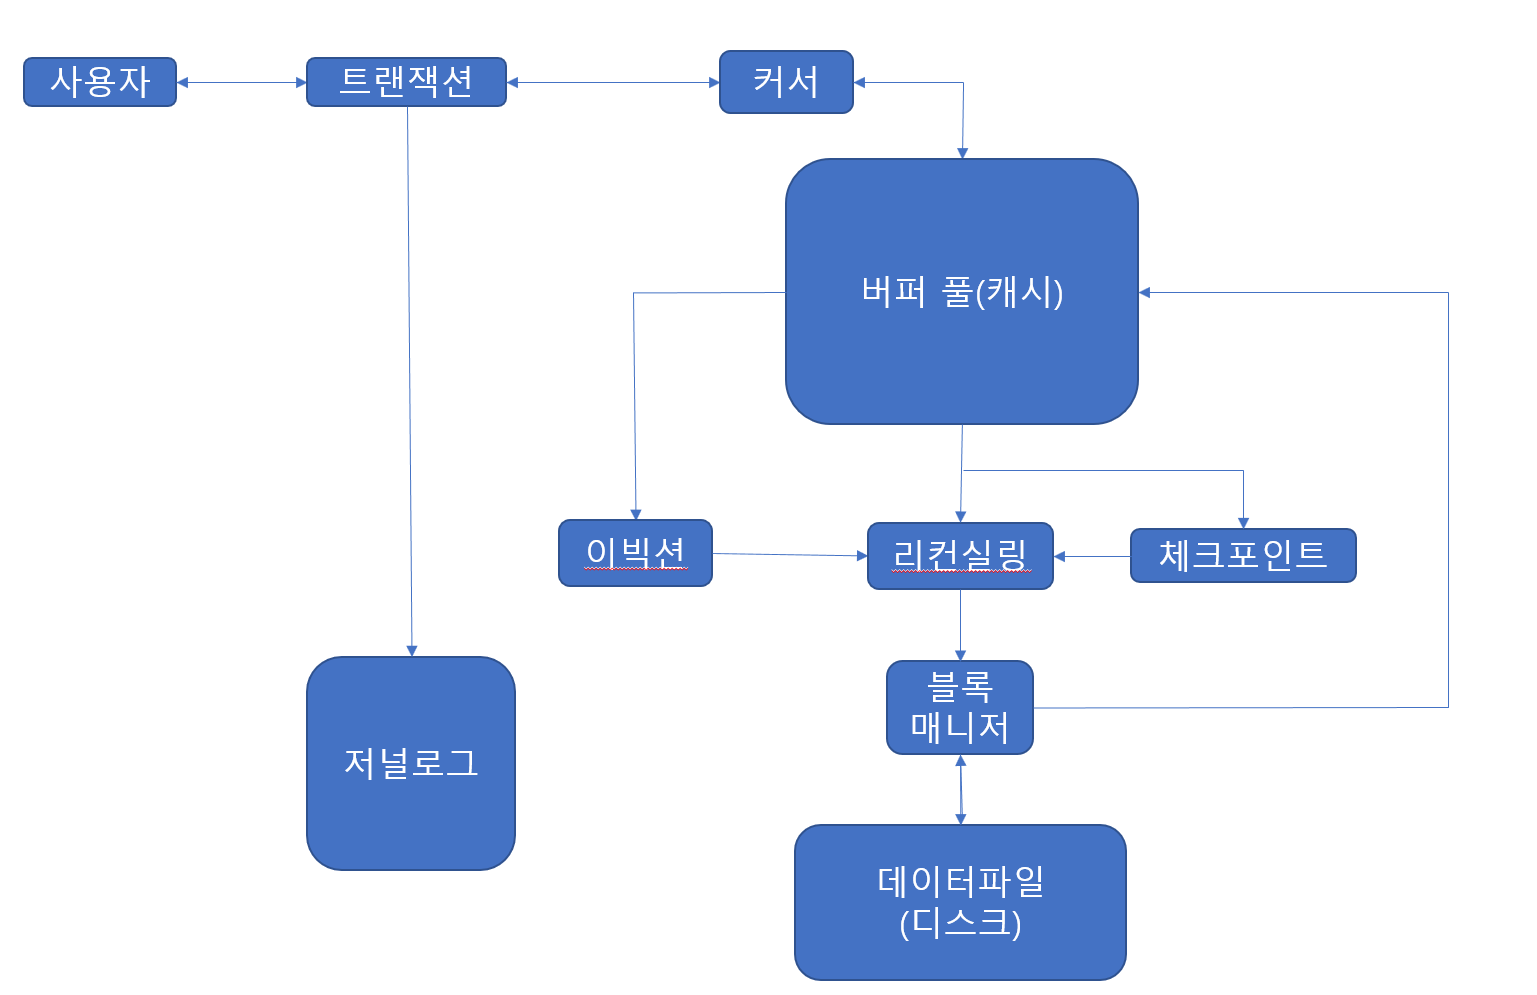
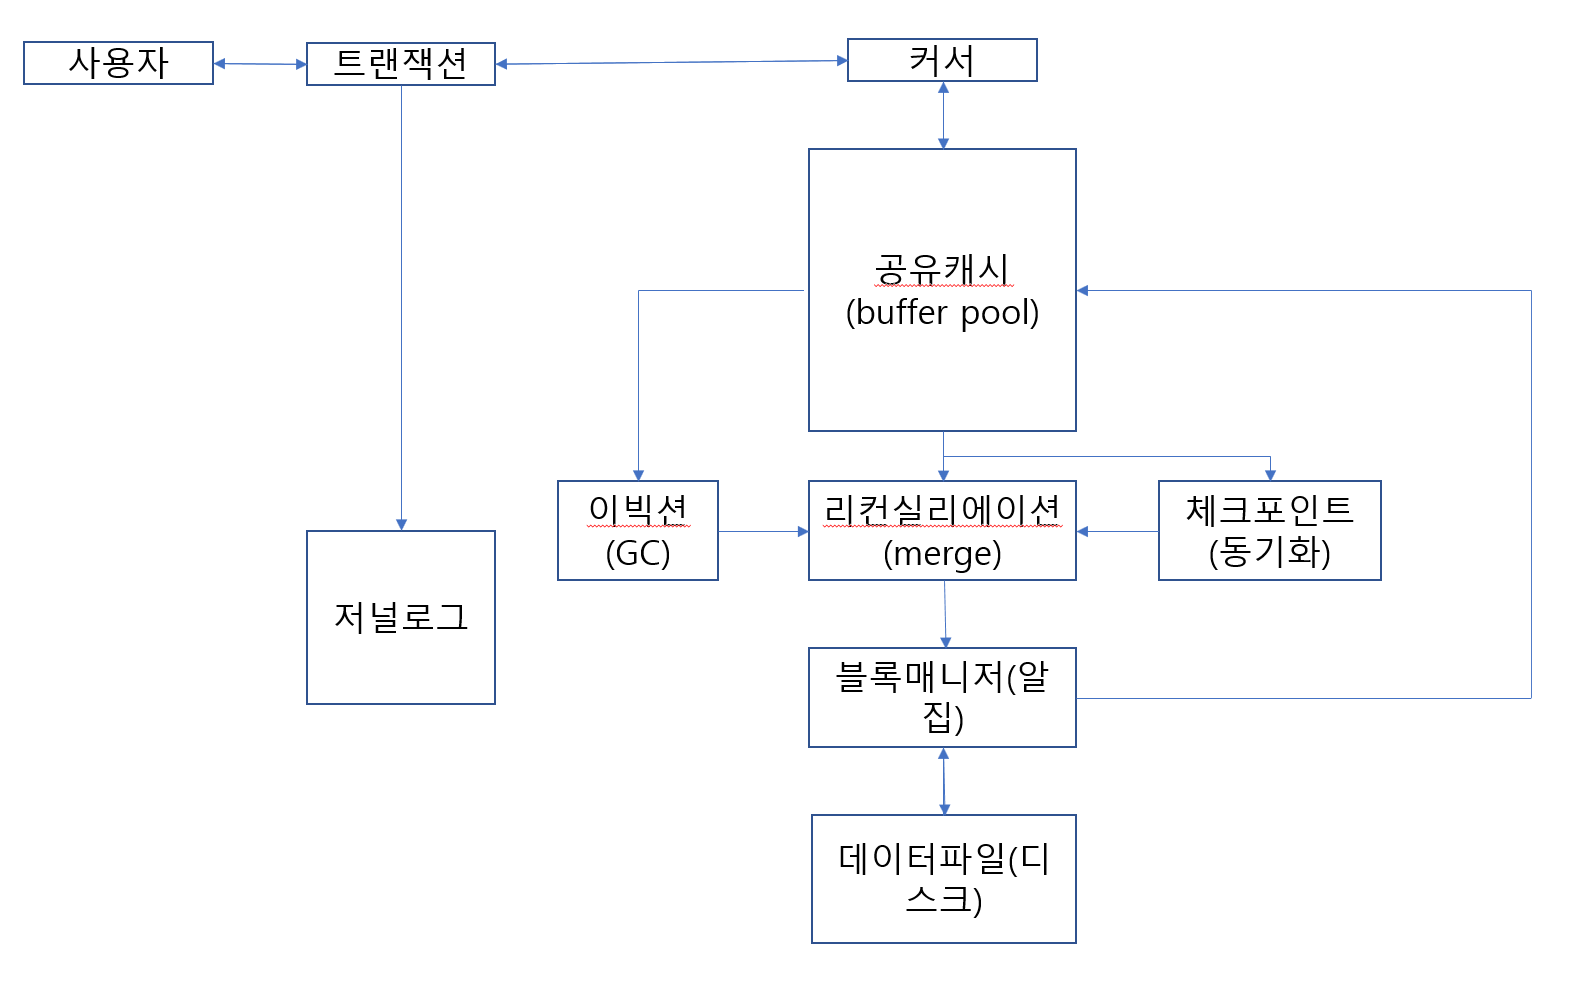
* 4월 4주차 트랜잭션, 디비 명령어 종류, wired-tiger

diff --git a/_posts/2021-04-29-mongodb-storage-engine.md b/_posts/2021-04-29-mongodb-storage-engine.md
@@ -1,0 +1,62 @@
+---
+layout: post
+title:  "MongoDB wiredTiger 특징"
+summary: "MongoDB의 wiredTiger 스토리지 엔진"
+author: mopower77
+date: '2021-04-29'
+category: mongodb
+thumbnail: /assets/img/posts/hello.jpg
+---
+  
+### 스토리지 엔진
+ - 데이터를 디스크와 메모리에 저장, 삭제, 읽어오는 역할을 담당.
+ - 하나의 몽고디비 서버에 하나의 스토리지 엔진만 사용가능.
+
+### 스토리지 엔진의 종류
+ - MMAPv1
+ - WiredTiger
+ - In-Memory
+ - RocksDB
+ - TokuDB
+
+
+##MMAPv1 스토리지 엔진
+ - 몽고디비 초기 스토리지 엔진(ver 3.0까지 사용)
+ - 컬렉션 단위의 잠금
+ - 내장된 캐시기능이 없음
+
+##WiredTiger 스토리지 엔진
+ - MMAPv1 다음에 나온 엔진(ver 3.2)
+ - 장금 경함 최소화(Lock-free Algorithm)가 이 엔진의 핵심
+   - 스킵 리스트
+   - 해저드 포인터
+   - MVCC (Multi Version Concurrency Control) 
+ - 도큐먼트 단위 잠금
+ - 데이터 암호화 및 압축 기능
+
+###해저드 포인터(Hazard Pointer)
+ - 사용되고있는 데이터 페이지의 포인터들을 관리하는 리스트
+ - 예)
+   - 모든 쿼리는 무조건 공유캐시(버퍼풀)을 거쳐야 한다
+   - 그리고 사용자 쿼리의 관련된 모든 데이터는 공유캐시(버버풀)에 상주해 있다
+   - 이 공유캐시도 용량이 무한하지 않기때문에 특정 시점에는 비워주어야 한다
+   - 이때 해저드 포인터가 없다면 사용되고잇는 데이터를 사용이 끝날때까지 기다렷다가 삭제를 하던가 해야 할 것이다.
+   - 하지만 해저드포인터를 통해 참조되고있는 데이터들을 제외하고 나머지것들만 지워주면 대기없이 바로 가능하다.
+
+###스킵리스트
+ - 자료구조 중에 하나로 이름에서처럼 스킵을 하면서 데이터를 관리 할 수 있다.
+ - 재정렬이 필요 없다.  
+ - 링크드리스트와 비교하자면 다음을 가리키는 포인터가 하나이지만 스킵리스트는 포인터가 여러개이다.
+   - 다음을 가리키는 포인터가 여러개라는 말은 특정 규칙을 통해 첫 노드가 2번째노드를 4번째 노드를 가리킬 수 있다는 뜻이다.
+   - 위와 같은 구조로 되어있어 모든 데이터를 조회하는게 아니라 스킵하면서 데이터를 조회 할 수 있다.
+
+###MVCC (Multi Version Concurrency Control)
+- 멀티버전 동시성 제어
+- 하나의 데이터가 여러개의 버전으로 나누어져있고 이를 통해 동시성 문제를 해결  
+  - 예)
+    - db.users.update({id: 5}) 쿼리를 날린다.
+    - 이때 기존의 데이터는 그대로 두고 갱신된 user.id = 5 의 값을 새로 추가하고 버전을 기록한다.  
+    - 이처럼 데이터의 상태가 변경될때마다 새로 추가를 해주고 버전을 기록한다.
+    - 변경 뒤 데이터를 조회 할때 제일 마지막 버전의 값을 돌려준다.
+    - 기존의 데이터는 그대로 두고 버전별로 데이터를 새로 생성함으로서 동시에 조회 및 변경시에 잠김없이 처리가 가능하다.
+    

diff --git a/_posts/2021-04-30-wiredTiger2.md b/_posts/2021-04-30-wiredTiger2.md
@@ -1,0 +1,40 @@
+---
+layout: post
+title:  "wiredTiger 내부 작동 방식"
+summary: "MongoDB의 wiredTiger 스토리지 엔진"
+author: mopower77
+date: '2021-04-30'
+category: mongodb
+thumbnail: /assets/img/mongo/wired.png
+---
+
+## 저널로그
+ - 데이터 상태가 변경될 때(트랜잭션이 발동 할 때)저장되는 데이터
+ - 비정상적 서버 종료로부터 데이터 복구를 하는 용도로 사용
+ - 체크포인트 발생 시점을 기준으로 이전 데이터들은 삭제
+
+## 공유캐시(Buffer Pool)
+ - 모든 요청은 공유캐시를 통한다.
+ - 조회및 상태 변경시에 데이터 페이지 단위로 공유캐시에 담긴다.
+
+## 리컨실리에이션
+ - 소스병합처럼 변경된 데이터를 병합하는 작업을한다.
+
+## 이빅션
+ - 일종의 가비지 컬렉션과 비슷한 개념으로 공유캐시에 사용되고있지 않는 데이터를 제거하는 작업
+
+## 체크포인트
+ - 주기적으로 저널로그와 디스크의 데이터파일을 동기화 하는 작업.
+    1. 체크포인트 발생.
+    2. 체크포인트 발생 시점에서의 저널로그에 기록된 로그데이터와 데이터 파일을 동기화한다.
+    3. 변경된 데이터들은 리컨실리에이션에서 병합작업 후 디스크저장.
+    4. 동기화 시점을 기준으로 이전 저널로그 삭제.
+ 
+## 블록매니저
+ - 데이터를 압축 및 압축해제를 담당
+ - 디스크에 데이터를 압축 한 뒤 저장
+ - 공유캐시에는 압축된 데이터를 압축해제 한 뒤 저장
+
+
+
+ 

diff --git a/_posts/2021-04-26-transaction.md b/_posts/2021-04-26-transaction.md
@@ -1,0 +1,27 @@
+---
+layout: post
+title:  "트랜잭션"
+summary: "트랜잭션 특징"
+author: mopower77
+date: '2021-04-26'
+category: mongodb
+thumbnail: /assets/img/posts/hello.jpg
+---
+
+### 트랜잭션
+- 데이터베이스 상태를 변화시키는 하나의 논리적 기능을 수행하는 작업의 단위.
+   - 예로 계좌 이체의 경우 출금과 입금을 하나의 논리적기능을 수행하는 단위라고 할 수 있다.
+
+#### 원자성
+- 어떠한 작업 단위내에 변경되는 데이터들이 모두 변경이 되던가 모두 변경되지 않아야한다.
+- 모 아니면 도
+
+#### 일관성
+- 트랜잭션이 끝나면 이전 상태와 동일해야 한다.
+- 데이터 무결성 보장
+
+#### 격리성, 독립성
+- 트랜잭션끼리는 독립적으로 실행.
+
+#### 지속성
+- 트랜잭션이 성공적으로 끝나면 영구저장된다.

diff --git a/_posts/2021-04-27-db-command-type.md b/_posts/2021-04-27-db-command-type.md
@@ -1,0 +1,25 @@
+---
+layout: post
+title:  "디비 명령어 종류"
+summary: "DML, DDL, DCL ,TCL"
+author: mopower77
+date: '2021-04-27'
+category: mongodb
+thumbnail: /assets/img/posts/hello.jpg
+---
+
+### DCL (Data Control Language)
+- 데이터베이스에 접근하거나 어떠한 권한을 주는 명령어
+    - GRANT, REVOKE, COMMIT, ROLLBACK
+
+### DDL (Data Definition Language)
+- 데이터베이스나 테이블의 구조를 정의하는 명령어
+    - CREATE ALTER DROP RENAME TRUNCATE
+
+### DML (Data Manipulation Language)
+ - 데이터를 조작하는 명령어
+   - SELECT, INSERT, UPDATE, DELETE
+    
+### TCL (Transaction Control Language)
+ - 트랜잭션을 제어하는 명령어
+   - COMMIT, ROLLBACK, SAVEPOINT

diff --git a/_posts/2021-04-28-mongodb-version.md b/_posts/2021-04-28-mongodb-version.md
@@ -1,0 +1,18 @@
+---
+layout: post
+title:  "MongoDB 버전"
+summary: "MongoDB 버전 작성법"
+author: mopower77
+date: '2021-04-28'
+category: mongodb
+thumbnail: /assets/img/posts/hello.jpg
+---
+
+### MongoDB 버전
+ - Semantic Versioning Specification 표기법 사용.
+   -  3.2.1 (메이저, 마이너, 패치번호)
+ - 마이너버전을 기준으로 개발버전과 릴리즈버전을 구분.
+ - 홀수는 개발버전 짝수는 릴리즈버전.
+ - 백포트방식으로 마이너 한단계 아래 버전으로 릴리즈버전 지정.  
+   -  3.3.1(개발버전)
+   -  3.2.1(릴리즈버전)
